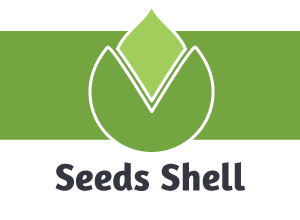
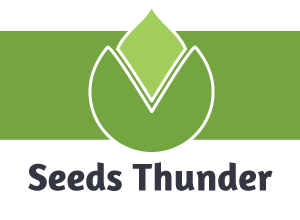
Issue #2960591: Update seeds thunder screenshot and fixes for arabic website

Changed region(s): [[0.09, 0.7364, 0.93, 0.8727]]

diff --git a/themes/custom/thunder_seeds/css/thunder_seeds.css b/themes/custom/thunder_seeds/css/thunder_seeds.css
@@ -23,6 +23,7 @@
 /* 8px/16px */
 /* Device breakpoints */
 /* toolbar */
+@import url("https://fonts.googleapis.com/css?family=Tajawal:400,700&subset=arabic");
 /* line 4, ../scss/_paragraphs-widget.scss */
 .thunder-seeds .field-multiple-table > thead tr {
   border-bottom: 1px solid #aecf79;
@@ -370,53 +371,57 @@
 .thunder-seeds .tabs.primary .tabs__tab.is-active {
   border-color: #8ac538;
 }
-/* line 23, ../scss/component/_tabs.scss */
+/* line 22, ../scss/component/_tabs.scss */
+.thunder-seeds .tabs.primary a {
+  background: none !important;
+}
+/* line 26, ../scss/component/_tabs.scss */
 .thunder-seeds .is-horizontal .tabs__tab {
   border-bottom: 1px solid #8ac538;
 }
-/* line 27, ../scss/component/_tabs.scss */
+/* line 30, ../scss/component/_tabs.scss */
 [dir="rtl"] .thunder-seeds .is-horizontal .tabs.primary .tabs__tab:last-child {
   border-bottom-color: #8ac538;
 }
-/* line 31, ../scss/component/_tabs.scss */
+/* line 34, ../scss/component/_tabs.scss */
 .thunder-seeds .tabs.secondary .tabs__tab.is-active {
   color: #8ac538;
 }
-/* line 33, ../scss/component/_tabs.scss */
+/* line 36, ../scss/component/_tabs.scss */
 [dir="rtl"] .thunder-seeds .tabs.secondary .tabs__tab.is-active {
   border-right: 2px solid #8ac538;
   border-left: 0;
 }
-/* line 38, ../scss/component/_tabs.scss */
+/* line 41, ../scss/component/_tabs.scss */
 .thunder-seeds .tabs.secondary .tabs__tab + .tabs__tab {
   border-top: 1px solid #8ac538;
 }
-/* line 40, ../scss/component/_tabs.scss */
+/* line 43, ../scss/component/_tabs.scss */
 .thunder-seeds .tabs.secondary .tabs__tab + .tabs__tab:hover, .thunder-seeds .tabs.secondary .tabs__tab + .tabs__tab:focus {
   border-bottom-color: #8ac538 !important;
 }
-/* line 45, ../scss/component/_tabs.scss */
+/* line 48, ../scss/component/_tabs.scss */
 .thunder-seeds .tabs.secondary a {
   color: #333;
 }
-/* line 48, ../scss/component/_tabs.scss */
+/* line 51, ../scss/component/_tabs.scss */
 .thunder-seeds .tabs.secondary .is-active a {
   color: #8ac538;
 }
-/* line 51, ../scss/component/_tabs.scss */
+/* line 54, ../scss/component/_tabs.scss */
 .thunder-seeds .is-horizontal .tabs.secondary .tabs__tab + .tabs__tab {
   border-top: 0;
 }
-/* line 54, ../scss/component/_tabs.scss */
+/* line 57, ../scss/component/_tabs.scss */
 .thunder-seeds .is-horizontal .tabs.secondary .tabs__tab.is-active {
   border-right-color: transparent;
   border-bottom-color: #8ac538;
 }
-/* line 59, ../scss/component/_tabs.scss */
+/* line 62, ../scss/component/_tabs.scss */
 [dir="rtl"] .thunder-seeds .is-horizontal {
   text-align: right;
 }
-/* line 62, ../scss/component/_tabs.scss */
+/* line 65, ../scss/component/_tabs.scss */
 .thunder-seeds .is-horizontal.position-container {
   border-bottom: 1px solid #8ac538;
 }
@@ -551,4 +556,9 @@
 .thunder-seeds .eb-tabs ul li.active a {
   color: #8ac538;
   border-bottom: 3px solid #8ac538;
+}
+
+/* line 2, ../scss/base/_elements.scss */
+[dir="rtl"] body {
+  font-family: "Tajawal", sans-serif;
 }

diff --git a/modules/custom/seeds_pollination/css/seeds_toolbar.css b/modules/custom/seeds_pollination/css/seeds_toolbar.css
@@ -1,3 +1,4 @@
+@import url("https://fonts.googleapis.com/css?family=Tajawal:400,700&subset=arabic");
 /* line 5, ../scss/seeds_toolbar.scss */
 .seeds-toolbar.toolbar-fixed .toolbar-tray-horizontal .toolbar-icon-admin-toolbar-tools-help:before {
   background-image: url("../images/seeds.svg");
@@ -60,13 +61,9 @@
   background: #74a333;
 }
 
-/* line 86, ../scss/seeds_toolbar.scss */
-[dir="rtl"] {
-  @import url("https://fonts.googleapis.com/css?family=Changa:400,700&subset=arabic");
-}
 /* line 89, ../scss/seeds_toolbar.scss */
 [dir="rtl"] .seeds-toolbar.toolbar-fixed .toolbar {
-  font-family: 'Changa', sans-serif;
+  font-family: 'Tajawal', sans-serif;
 }
 /* line 91, ../scss/seeds_toolbar.scss */
 [dir="rtl"] .seeds-toolbar.toolbar-fixed .toolbar .toolbar-bar .user-toolbar-tab {

diff --git a/modules/custom/seeds_pollination/scss/seeds_toolbar.scss b/modules/custom/seeds_pollination/scss/seeds_toolbar.scss
@@ -83,11 +83,11 @@ $green: #74a333;
     }
 }
 
+@import url('https://fonts.googleapis.com/css?family=Tajawal:400,700&subset=arabic');
 [dir="rtl"] {
-    @import url('https://fonts.googleapis.com/css?family=Changa:400,700&subset=arabic');
     .seeds-toolbar.toolbar-fixed {
         .toolbar {
-            font-family: 'Changa', sans-serif;
+            font-family: 'Tajawal', sans-serif;
             .toolbar-bar .user-toolbar-tab {
                 float: left;
             }

diff --git a/themes/custom/thunder_seeds/scss/_overrides.scss b/themes/custom/thunder_seeds/scss/_overrides.scss
@@ -26,7 +26,7 @@ $font-size-base: 0.8125rem; /* 13px */
 $font-size-small: 0.6875rem; /* 13px */
 $font-size-tiny: 0.5625rem; /* 9px */
 
-$font-family: "Lucida Grande", "Lucida Sans Unicode", "DejaVu Sans", "Lucida Sans", sans-serif;
+$font-family: 'Tajawal', sans-serif;;
 
 /* Rounded up, since chrome treats 19.9998 as 19. Only three digits for firefox */
 $line-height-base: 1.539; /* 20px/13px */

diff --git a/themes/custom/thunder_seeds/scss/component/_tabs.scss b/themes/custom/thunder_seeds/scss/component/_tabs.scss
@@ -19,6 +19,9 @@
         .tabs__tab.is-active {
             border-color: $primary-color-intense;
         }
+        a {
+            background: none !important;
+        }
     }
     .is-horizontal .tabs__tab {
         border-bottom: 1px solid $primary-color-intense;

diff --git a/themes/custom/thunder_seeds/scss/thunder_seeds.scss b/themes/custom/thunder_seeds/scss/thunder_seeds.scss
@@ -13,3 +13,5 @@
 @import "component/dropbutton";
 @import "component/vertical-tabs";
 @import "component/entity_browser.tabs";
+@import "base/_elements";
+@import url('https://fonts.googleapis.com/css?family=Tajawal:400,700&subset=arabic');

diff --git a/themes/custom/thunder_seeds/scss/base/_elements.scss b/themes/custom/thunder_seeds/scss/base/_elements.scss
@@ -1,0 +1,5 @@
+[dir="rtl"] {
+    body {
+        font-family: $font-family;
+    }
+}
